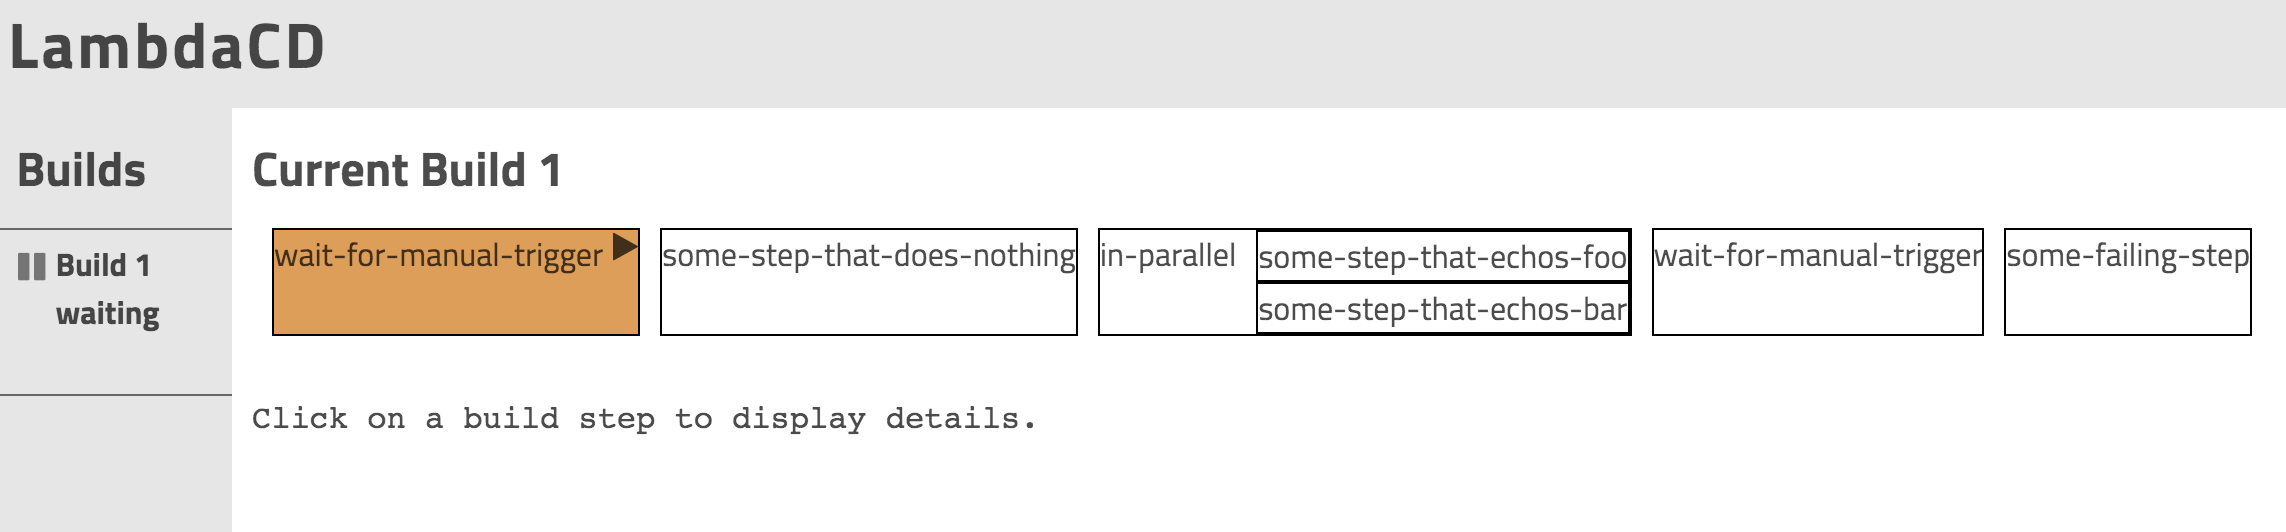
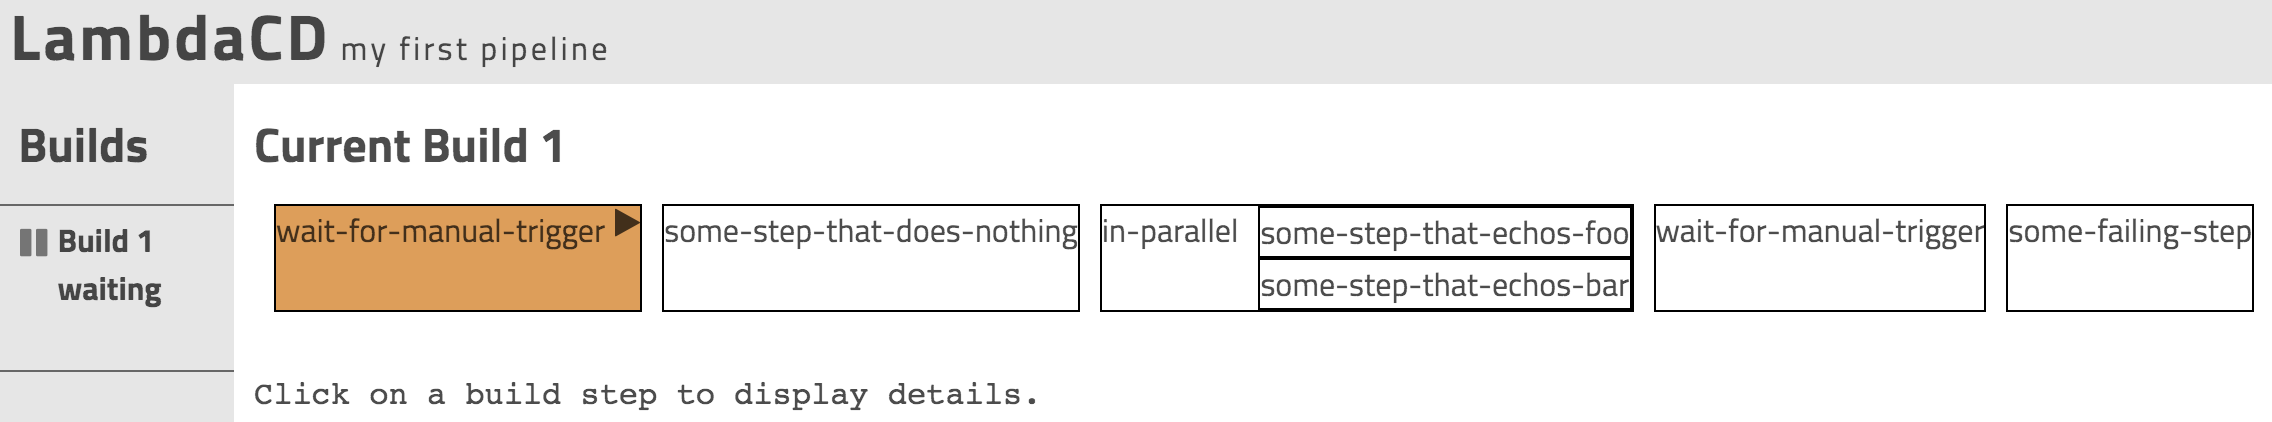
update getting started to most recent version of template

diff --git a/getting-started.md b/getting-started.md
@@ -51,6 +51,7 @@ $ tree
   ├── project.clj
   └── src
       └── my_first_pipeline
+          ├── core.clj
           ├── pipeline.clj
           └── steps.clj
 {% endhighlight %}
@@ -75,53 +76,26 @@ Like any other clojure code file, it starts with the namespace declaration and i
 {% highlight clojure %}
 (ns my-first-pipeline.pipeline
   (:use [lambdacd.steps.control-flow]
-        [lambdacd.steps.manualtrigger]
         [my-first-pipeline.steps])
-  (:require
-        [ring.server.standalone :as ring-server]
-        [lambdacd.ui.ui-server :as ui]
-        [lambdacd.runners :as runners]
-        [lambdacd.util :as util]
-        [lambdacd.core :as lambdacd]
-        [clojure.tools.logging :as log])
-  (:gen-class))
+  (:require [lambdacd.steps.manualtrigger :as manualtrigger]))
 {% endhighlight %}
 
 More importantly, we define a constant `pipeline-def` which holds your pipelines structure:
 {% highlight clojure %}
-
 (def pipeline-def
   `(
-    wait-for-manual-trigger
+    manualtrigger/wait-for-manual-trigger
     some-step-that-does-nothing
     (in-parallel
       some-step-that-echos-foo
       some-step-that-echos-bar)
-    wait-for-manual-trigger
+    manualtrigger/wait-for-manual-trigger
     some-failing-step))
 {% endhighlight %}
 
-
-It also includes the `-main` entrypoint to your application lives, taking care of wiring everything together,
-setting up configuration and starting pipeline and server:
-
-{% highlight clojure %}
-(defn -main [& args]
-      (let [home-dir (util/create-temp-dir)
-            config { :home-dir home-dir :dont-wait-for-completion false}
-            pipeline (lambdacd/assemble-pipeline pipeline-def config)
-            app (ui/ui-for pipeline)]
-           (log/info "LambdaCD Home Directory is " home-dir)
-           (runners/start-one-run-after-another pipeline)
-           (ring-server/serve app {:open-browser? false
-                                   :port 8080})))
-{% endhighlight %}
-
-
-
 ### `steps.clj`
 
-This file contains your custom build steps that were referenced in the pipeline structure you just saw.
+This file contains the custom build steps that were referenced in the pipeline structure you just saw.
 
 Again, we start with the namespace header. Specifically, we import the `lambdacd.steps.shell` namespace under the name
 `shell`. This provides LambdaCD support for executing commands on the shell.
@@ -159,6 +133,33 @@ just doing the most obvious thing to do in a build pipeline. We execute some she
                   "echo \"i am going to fail now...\""
                   "exit 1"))
 {% endhighlight %}
+
+
+### `core.clj`
+
+This namespace includes the `-main` entrypoint to your application, taking care of wiring everything together,
+setting up configuration and starting pipeline and server:
+
+{% highlight clojure %}
+(defn -main [& args]
+      (let [;; the home dir is where LambdaCD saves all data.
+            ;; point this to a particular directory to keep builds around after restarting
+            home-dir (util/create-temp-dir)
+            config {:home-dir home-dir
+                    :name "my first pipeline"}
+            ;; initialize and wire everything together
+            pipeline (lambdacd/assemble-pipeline pipeline/pipeline-def config)
+            ;; create a Ring handler for the UI
+            app (ui/ui-for pipeline)]
+           (log/info "LambdaCD Home Directory is " home-dir)
+           ;; this starts the pipeline and runs one build after the other.
+           ;; there are other runners and you can define your own as well.
+           (runners/start-one-run-after-another pipeline)
+           ;; start the webserver to serve the UI
+           (ring-server/serve app {:open-browser? false
+                                   :port 8080})))
+{% endhighlight %}
+
 
 
 ## Checking out a git repo and doing some real work
